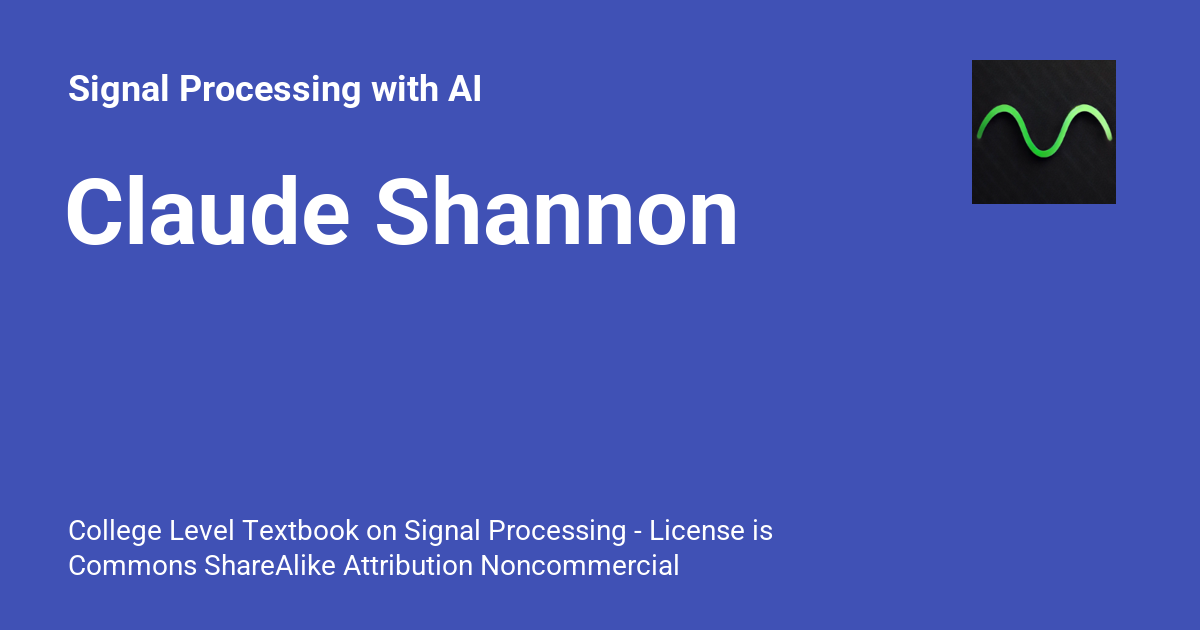
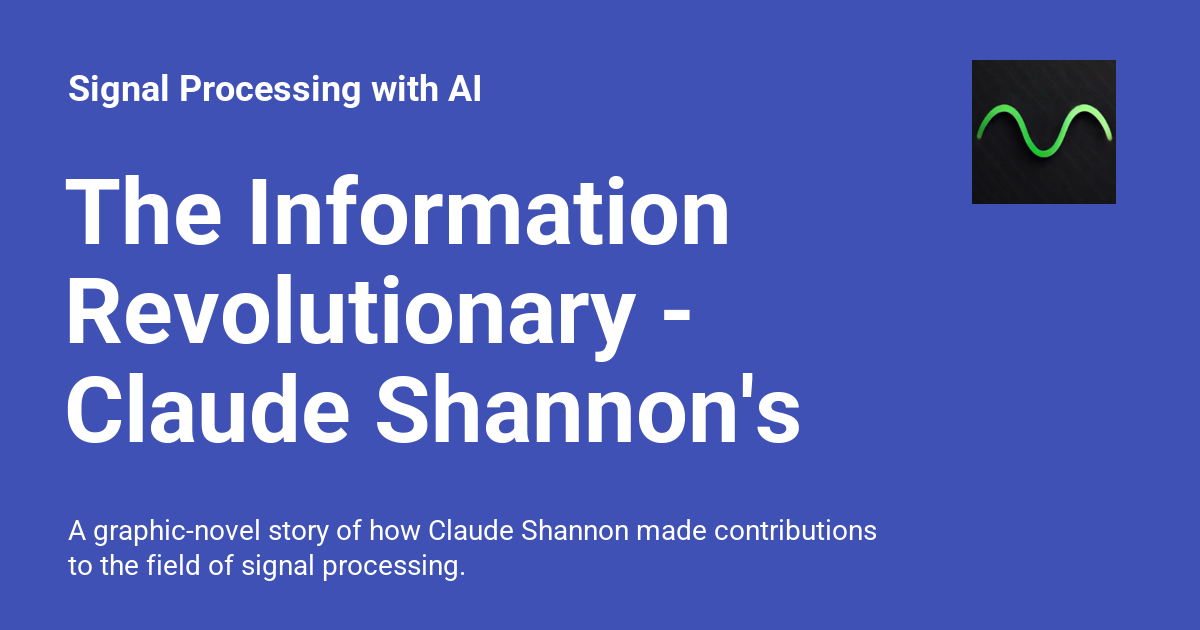
Deployed 9d1baf4 with MkDocs version: 1.6.1

diff --git a/stories/shannon/index.html b/stories/shannon/index.html
@@ -6,7 +6,7 @@
       <meta charset="utf-8">
       <meta name="viewport" content="width=device-width,initial-scale=1">
       
-        <meta name="description" content="College Level Textbook on Signal Processing - License is Commons ShareAlike Attribution Noncommercial">
+        <meta name="description" content="A graphic-novel story of how Claude Shannon made contributions to the field of signal processing.">
       
       
         <meta name="author" content="Dan McCreary">
@@ -26,7 +26,7 @@
     
     
       
-        <title>Claude Shannon - Signal Processing with AI</title>
+        <title>The Information Revolutionary - Claude Shannon's Digital Gamble - Signal Processing with AI</title>
       
     
     
@@ -73,11 +73,11 @@
       
         <meta  property="og:type"  content="website" >
       
-        <meta  property="og:title"  content="Claude Shannon - Signal Processing with AI" >
+        <meta  property="og:title"  content="The Information Revolutionary - Claude Shannon's Digital Gamble - Signal Processing with AI" >
       
-        <meta  property="og:description"  content="College Level Textbook on Signal Processing - License is Commons ShareAlike Attribution Noncommercial" >
+        <meta  property="og:description"  content="A graphic-novel story of how Claude Shannon made contributions to the field of signal processing." >
       
-        <meta  property="og:image"  content="https://dmccreary.github.io/signal-processing/assets/images/social/stories/shannon/index.png" >
+        <meta property="og:image" content="https://dmccreary.github.io/signal-processing/stories/shannon/cover.png">
       
         <meta  property="og:image:type"  content="image/png" >
       
@@ -89,11 +89,11 @@
       
         <meta  name="twitter:card"  content="summary_large_image" >
       
-        <meta  name="twitter:title"  content="Claude Shannon - Signal Processing with AI" >
+        <meta  name="twitter:title"  content="The Information Revolutionary - Claude Shannon's Digital Gamble - Signal Processing with AI" >
       
-        <meta  name="twitter:description"  content="College Level Textbook on Signal Processing - License is Commons ShareAlike Attribution Noncommercial" >
+        <meta  name="twitter:description"  content="A graphic-novel story of how Claude Shannon made contributions to the field of signal processing." >
       
-        <meta  name="twitter:image"  content="https://dmccreary.github.io/signal-processing/assets/images/social/stories/shannon/index.png" >
+        <meta name="twitter:image" content="https://dmccreary.github.io/signal-processing/stories/shannon/cover.png">
       
     
     
@@ -149,7 +149,7 @@
         <div class="md-header__topic" data-md-component="header-topic">
           <span class="md-ellipsis">
             
-              Claude Shannon
+              The Information Revolutionary - Claude Shannon's Digital Gamble
             
           </span>
         </div>
